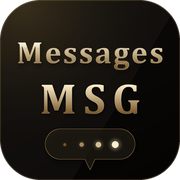
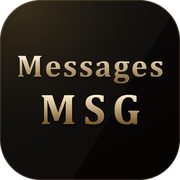
Deploy: убрать пузырь — минималистичная иконка

diff --git a/index.html b/index.html
@@ -7,7 +7,7 @@
   <meta name="apple-mobile-web-app-status-bar-style" content="black-translucent" />
   <meta name="apple-mobile-web-app-title" content="Рассылка" />
   <meta name="theme-color" content="#0a0806" />
-  <link rel="apple-touch-icon" href="icons/icon-180.png?v=1788613969" />
+  <link rel="apple-touch-icon" href="icons/icon-180.png?v=1788614387" />
   <link rel="manifest" href="manifest.json?v=1788612688" />
   <link rel="preconnect" href="https://fonts.gstatic.com" crossorigin>
   <link rel="stylesheet" href="https://fonts.googleapis.com/css2?family=Space+Grotesk:wght@500;600;700&family=JetBrains+Mono:wght@400;500;600&display=swap">
